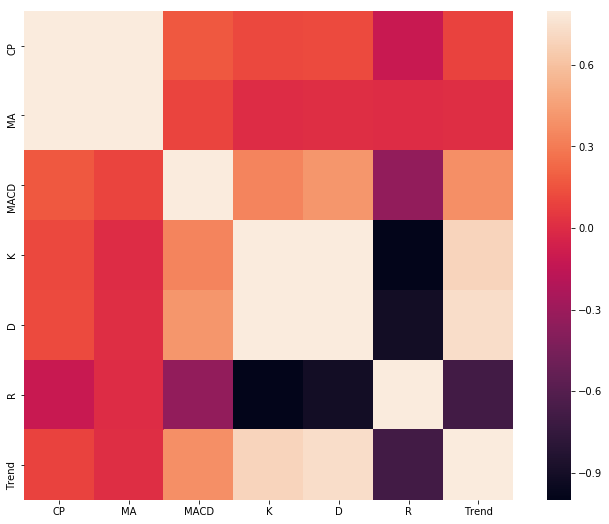
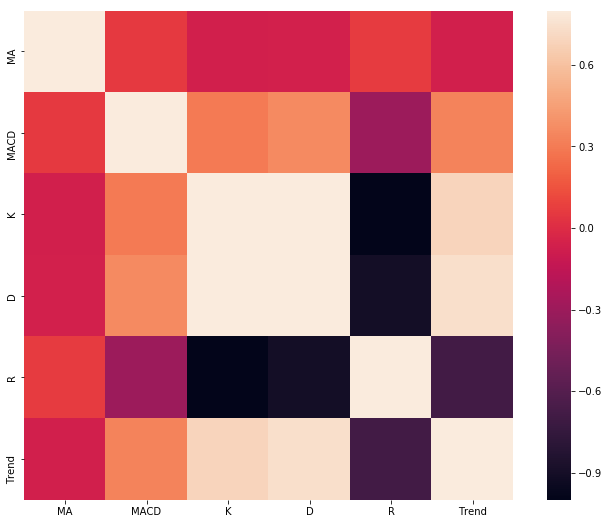
Trend another

diff --git a/Trend analysis/trend.py b/Trend analysis/trend.py
@@ -19,9 +19,13 @@ data2 = pd.read_csv("sqtrend.csv")
 data = data.append(data2, ignore_index = True)
 
 '''
-corrmat = data.corr()
+corrdata = data.iloc[:,1:]
+corrmat = corrdata.corr()
 f, ax = plt.subplots(figsize=(12, 9))
 sns.heatmap(corrmat, vmax=.8, square=True)
+trend = 500 * data.iloc[:,-1]
+plt.plot(trend)
+plt.plot(data.iloc[:,0])
 '''
 
 
@@ -36,13 +40,37 @@ Y_train = (data.iloc[:-80,-1].values).astype('float32')
 
 X_check = (data.iloc[-80:,1:-1].values).astype('float32')
 X_check=scaler.transform(X_check)
-
+Y_check = (data.iloc[-80:,-1].values).astype('float32')
 
 model = tf.keras.models.Sequential()
-model.add(tf.keras.layers.Dense(100, input_dim=X_train.shape[1], activation=tf.nn.sigmoid))
-model.add(tf.keras.layers.Dense(100, activation=tf.nn.sigmoid))
+model.add(tf.keras.layers.Dense(10, input_dim=X_train.shape[1], activation=tf.nn.sigmoid))
+model.add(tf.keras.layers.Dense(10, activation=tf.nn.sigmoid))
 model.add(tf.keras.layers.Dense(1, activation=tf.nn.sigmoid))
 
 model.compile(optimizer="nadam", loss="binary_crossentropy", metrics = ['accuracy'])
-model.fit(X_train, Y_train, epochs=500, batch_size=35, validation_split = 0.33)
+history = model.fit(X_train, Y_train, epochs=500, batch_size=35, validation_split = 0.30)
 prediction = model.predict(X_check)
+model.save("Trendanalysis.h5")
+
+# Plot training & validation accuracy values
+plt.plot(history.history['acc'])
+plt.plot(history.history['val_acc'])
+plt.title('Model accuracy')
+plt.ylabel('Accuracy')
+plt.xlabel('Epoch')
+plt.legend(['Train', 'Test'], loc='upper left')
+plt.show()
+
+# Plot training & validation loss values
+plt.plot(history.history['loss'])
+plt.plot(history.history['val_loss'])
+plt.title('Model loss')
+plt.ylabel('Loss')
+plt.xlabel('Epoch')
+plt.legend(['Train', 'Test'], loc='upper left')
+plt.show()
+
+plt.plot(Y_check)
+plt.plot(prediction)
+plt.legend(['Actual output', 'Predicted output'], loc='upper left')
+plt.show()

diff --git a/Trend analysis/trendpredict.py b/Trend analysis/trendpredict.py
@@ -1,0 +1,43 @@
+# -*- coding: utf-8 -*-
+"""
+Created on Thu Dec  5 12:47:20 2019
+
+@author: niloy
+"""
+
+import numpy as np
+import pandas as pd
+import matplotlib.pyplot as plt
+import tensorflow as tf
+import seaborn as sns
+from sklearn.preprocessing import StandardScaler
+
+scale = StandardScaler()
+np.random.seed(7)
+data = pd.read_csv("gptrend.csv")
+data2 = pd.read_csv("sqtrend.csv")
+data = data.append(data2, ignore_index = True)
+
+'''
+corrdata = data.iloc[:,1:]
+corrmat = corrdata.corr()
+f, ax = plt.subplots(figsize=(12, 9))
+sns.heatmap(corrmat, vmax=.8, square=True)
+trend = 500 * data.iloc[:,-1]
+plt.plot(trend)
+plt.plot(data.iloc[:,0])
+'''
+
+
+X_train = (data.iloc[:-80,1:-1].values).astype('float32')
+scaler = scale.fit(X_train)
+X_train=scaler.transform(X_train)
+Y_train = (data.iloc[:-80,-1].values).astype('float32')
+
+
+X_check = (data.iloc[-80:,1:-1].values).astype('float32')
+X_check=scaler.transform(X_check)
+Y_check = (data.iloc[-80:,-1].values).astype('float32')
+
+model = tf.keras.models.load_model("Trendanalysis.h5")
+prediction = model.predict(X_check)

diff --git a/Trend analysis/dataset_create.py b/Trend analysis/dataset_create.py
@@ -12,7 +12,7 @@ import tensorflow as tf
 from statistics import mean
 
 
-data = pd.read_csv("sqdata.csv")
+data = pd.read_csv("gpdata.csv")
 cp = (data.iloc[:,1].values).astype('float32')
 high = (data.iloc[:,3].values).astype('float32')
 low = (data.iloc[:,4].values).astype('float32')
@@ -79,7 +79,7 @@ t_data = [cp[26:],MA[11:],MACD,K[11:],D[9:],R[11:],trend[26:]]
 df = pd.DataFrame(t_data)
 df = df.T
 df.columns = ['CP','MA','MACD','K','D','R','Trend']
-export_csv = df.to_csv (r'sqtrend.csv', index = None, header=True)
+export_csv = df.to_csv (r'gptrend.csv', index = None, header=True)
 
 
 #plt.plot(cp[15:])

diff --git a/Trend analysis/trend2dataset.py b/Trend analysis/trend2dataset.py
@@ -12,7 +12,7 @@ import tensorflow as tf
 from statistics import mean
 
 
-data = pd.read_csv("gpdata.csv")
+data = pd.read_csv("sqdata.csv")
 cp = (data.iloc[:,1].values).astype('float32')
 high = (data.iloc[:,3].values).astype('float32')
 low = (data.iloc[:,4].values).astype('float32')
@@ -79,7 +79,7 @@ t_data = [cp[26:],MA[11:],MACD,K[11:],D[9:],R[11:],trend[26:]]
 df = pd.DataFrame(t_data)
 df = df.T
 df.columns = ['CP','MA','MACD','K','D','R','Trend']
-export_csv = df.to_csv (r'gptrend.csv', index = None, header=True)
+export_csv = df.to_csv (r'sqtrend.csv', index = None, header=True)
 
 
 #plt.plot(cp[15:])
